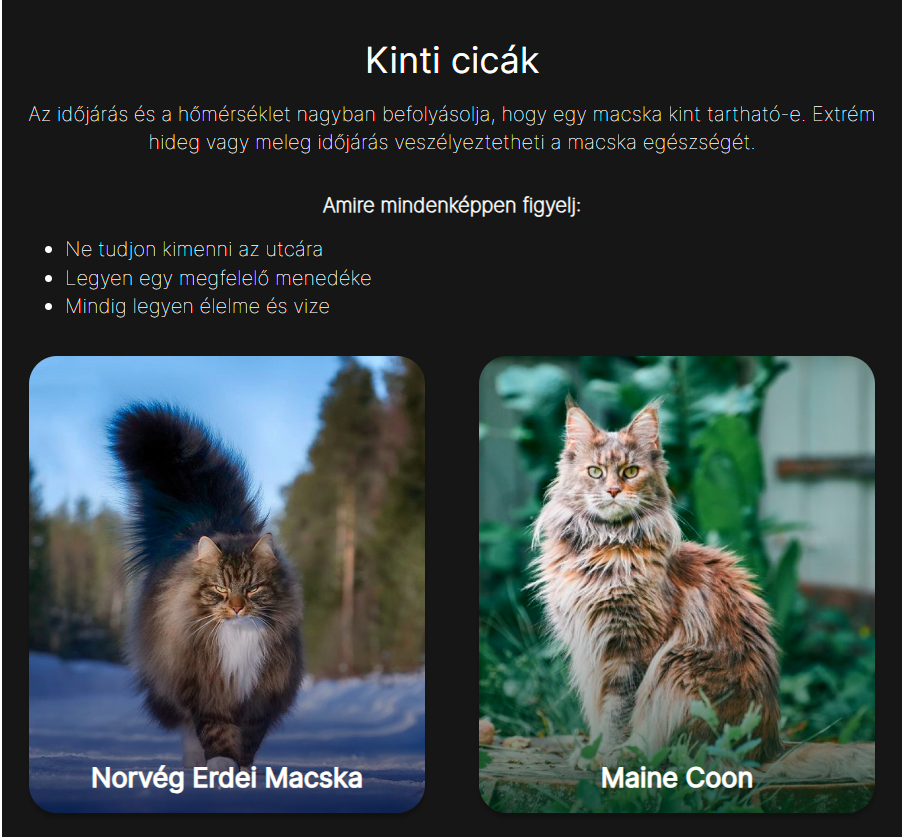
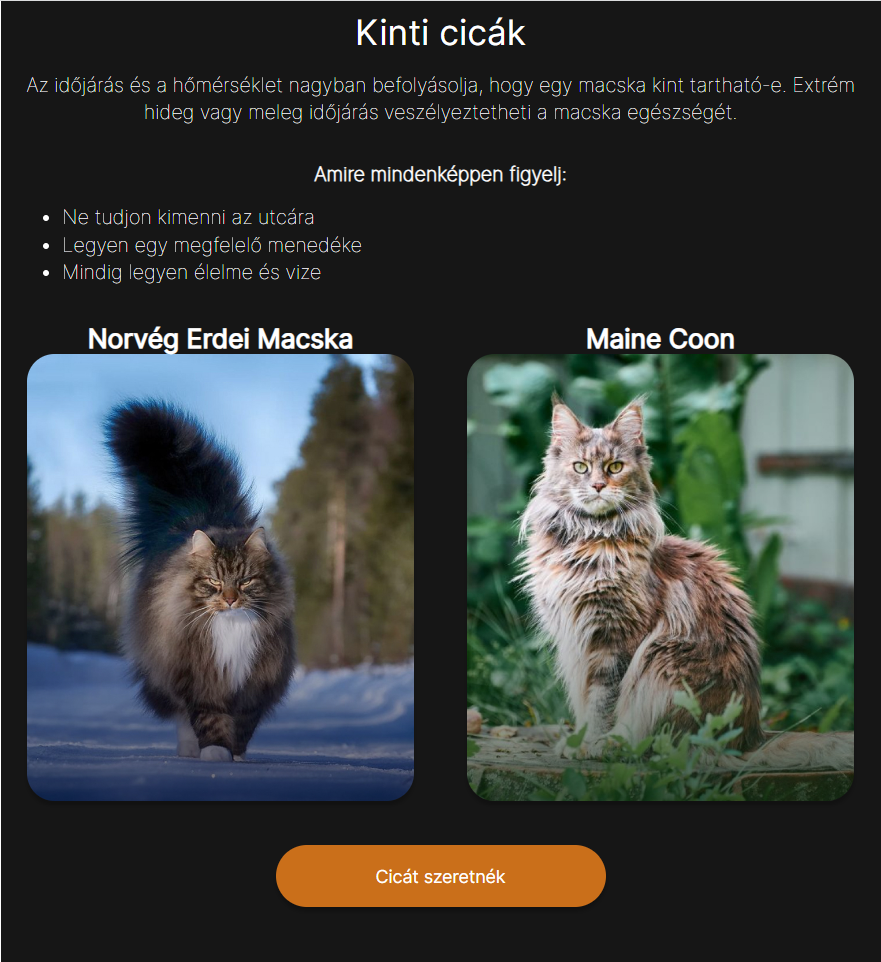
macskacímek

diff --git a/index.html b/index.html
@@ -1,155 +1,158 @@
 <!DOCTYPE html>
 <html lang="en">
-
-<head>
-    <meta charset="UTF-8">
-    <meta name="viewport" content="width=device-width, initial-scale=1.0">
+  <head>
+    <meta charset="UTF-8" />
+    <meta name="viewport" content="width=device-width, initial-scale=1.0" />
     <title>Saját név</title>
-    <link rel="stylesheet" href="style/index.css">
-</head>
+    <link rel="stylesheet" href="style/index.css" />
+  </head>
 
-<body>
-
+  <body>
     <div class="hero">
-        <div class="menu">
-            <ul>
-
-                <li><a href="#" class="primary">Kinti cicák</a></li>
-                <li><a href="#" class="primary">Benti cicák</a></li>
-                <li><a href="#" class="primary">Macskajátékok</a></li>
-                <li><a href="#" class="primary">Eseményeink</a></li>
-            </ul>
-        </div>
-        <h1>Macskaland</h1>
-        <p>Keresd meg a hozzád legjobban illő négylábúdat és böngéssz az eseményeink között!</p>
-        <a class="primary" href="#">Keresem a cicám</a>
-    </div>
-    <div class="content">
-        <h1>Milyen élete lesz a cicádnak?</h1>
-        <p>Első körben fontos, hogy tudjuk, milyen körülmények között szeretnénk cicát tartani és milyen életet fogunk
-            tudni
-            neki biztosítani így fajta specifikusabban tudunk választani.</p>
-        <div class="keret">
-            <a href="#" class="primary"><img src="icons/fa icon.svg" />Kinti cica</a>
-            <a href="#" class="primary"><img src="icons/ház icon.svg" />Benti cica</a>
-        </div>
-    </div>
-    <div class="content">
-        <h1>Kinti cicák</h1>
-        <p>
-            Az időjárás és a hőmérséklet nagyban befolyásolja, hogy egy macska kint tartható-e. Extrém hideg vagy meleg
-            időjárás
-            veszélyeztetheti a macska egészségét.
-        </p>
+      <div class="menu">
         <ul>
-            <span>Amire mindenképpen figyelj:</span>
-            <li> Ne tudjon kimenni az utcára </li>
-            <li>Legyen egy megfelelő menedéke</li>
-            <li>Mindig legyen élelme és vize</li>
+          <li><a href="#" class="primary">Kinti cicák</a></li>
+          <li><a href="#" class="primary">Benti cicák</a></li>
+          <li><a href="#" class="primary">Macskajátékok</a></li>
+          <li><a href="#" class="primary">Eseményeink</a></li>
         </ul>
+      </div>
+      <h1>Macskaland</h1>
+      <p>
+        Keresd meg a hozzád legjobban illő négylábúdat és böngéssz az
+        eseményeink között!
+      </p>
+      <a class="primary" href="#">Keresem a cicám</a>
+    </div>
+    <div class="content">
+      <h1>Milyen élete lesz a cicádnak?</h1>
+      <p>
+        Első körben fontos, hogy tudjuk, milyen körülmények között szeretnénk
+        cicát tartani és milyen életet fogunk tudni neki biztosítani így fajta
+        specifikusabban tudunk választani.
+      </p>
+      <div class="keret">
+        <a href="#" class="primary"
+          ><img src="icons/fa icon.svg" />Kinti cica</a
+        >
+        <a href="#" class="primary"
+          ><img src="icons/ház icon.svg" />Benti cica</a
+        >
+      </div>
+    </div>
+    <div class="content">
+      <h1>Kinti cicák</h1>
+      <p>
+        Az időjárás és a hőmérséklet nagyban befolyásolja, hogy egy macska kint
+        tartható-e. Extrém hideg vagy meleg időjárás veszélyeztetheti a macska
+        egészségét.
+      </p>
+      <ul>
+        <span>Amire mindenképpen figyelj:</span>
+        <li>Ne tudjon kimenni az utcára</li>
+        <li>Legyen egy megfelelő menedéke</li>
+        <li>Mindig legyen élelme és vize</li>
+      </ul>
     </div>
     <div class="keret">
-        <div class="norveg picture">
-            <h2>Norvég Erdei Macska</h2>
-        </div>
-        <div class="maincoon picture">
-            <h2>Maine Coon</h2>
+      <div style="text-align: center">
+        <h2>Norvég Erdei Macska</h2>
+        <div class="norveg picture"></div>
+      </div>
+      <div style="text-align: center">
+        <h2>Maine Coon</h2>
 
-
-        </div>
+        <div class="maincoon picture"></div>
+      </div>
     </div>
     <a href="#" class="primary">Cicát szeretnék</a>
     <div class="content">
-
-        <br>
-        <h1> Benti Cicák</h1>
-        <p>
-            Amikor cicát tartasz bent, fontos néhány alapvető szempontot figyelembe venni annak érdekében, hogy a cica
-            boldog és
-            egészséges legyen. Íme néhány fontos dolog, amire figyelned kell:
-        </p>
-        <ul>
-            <li>Legyen egy kialakított helye</li>
-            <li>Mindig legyen élelme és vize</li>
-            <li>Biztosítanod kell számára a napi aktivitást és sportot</li>
-        </ul>
+      <br />
+      <h1>Benti Cicák</h1>
+      <p>
+        Amikor cicát tartasz bent, fontos néhány alapvető szempontot figyelembe
+        venni annak érdekében, hogy a cica boldog és egészséges legyen. Íme
+        néhány fontos dolog, amire figyelned kell:
+      </p>
+      <ul>
+        <li>Legyen egy kialakított helye</li>
+        <li>Mindig legyen élelme és vize</li>
+        <li>Biztosítanod kell számára a napi aktivitást és sportot</li>
+      </ul>
     </div>
     <div class="keret">
-        <div class="bengali picture">
-            <h2> Bengáli macska</h2>
-        </div>
-        <div class="megezamacs picture">
-            <h2> Meg ez a cica</h2>
-        </div>
+      <div style="text-align: center">
+        <h2>Bengáli macska</h2>
+        <div class="bengali picture"></div>
+      </div>
+      <div style="text-align: center">
+        <h2>Meg ez a cica</h2>
+
+        <div class="megezamacs picture"></div>
+      </div>
     </div>
     <a href="#" class="primary"> Cicát szeretnék</a>
     <div class="content">
-        <br>
-        <h1>Fedezd fel</h1>
+      <br />
+      <h1>Fedezd fel</h1>
     </div>
     <div class="keret">
-        <div class="contentbox">
-            <img src="images/egér.jpg" alt="">
-            <h2>Tippek <br> macskajátékokhoz</h2>
-            <p>Találd meg a legjobb játékot kiskedvencednek.</p>
-            <a href="#" class="primary">Érdekel</a>
-        </div>
-        <div class="contentbox">
-            <img src="images/hal.jpg" alt="">
-            <h2>Macska konyha</h2>
-            <p>Fontos, hogy a hétköznapokon is minőségi ételeket tegyünk cicánk elé. Ehhez hoztunk pár hasznos receptet
-            </p>
-            <a href="#" class="primary">Érdekel</a>
-        </div>
+      <div class="contentbox">
+        <img src="images/egér.jpg" alt="" />
+        <h2>
+          Tippek <br />
+          macskajátékokhoz
+        </h2>
+        <p>Találd meg a legjobb játékot kiskedvencednek.</p>
+        <a href="#" class="primary">Érdekel</a>
+      </div>
+      <div class="contentbox">
+        <img src="images/hal.jpg" alt="" />
+        <h2>Macska konyha</h2>
+        <p>
+          Fontos, hogy a hétköznapokon is minőségi ételeket tegyünk cicánk elé.
+          Ehhez hoztunk pár hasznos receptet
+        </p>
+        <a href="#" class="primary">Érdekel</a>
+      </div>
     </div>
 
     <div class="content">
-        <br>
-        <br>
-        <h1>Eseményeink</h1>
+      <br />
+      <br />
+      <h1>Eseményeink</h1>
     </div>
     <div class="keret">
-        <div class="contentbox gray">
-            <p> 2023.10.05.</p>
-            <h2>
-                Macska show
-            </h2>
-            <p>
-                A Macska Elegancia Szépségverseny egy felejthetetlen esemény, ahol a világ legszebb és legbájosabb
-                macskái
-                mérik
-                össze szépségüket és eleganciájukat
-            </p>
-            <a href="#" class="primary secondary">
-                Jegyek ->
-            </a>
-        </div>
+      <div class="contentbox gray">
+        <p>2023.10.05.</p>
+        <h2>Macska show</h2>
+        <p>
+          A Macska Elegancia Szépségverseny egy felejthetetlen esemény, ahol a
+          világ legszebb és legbájosabb macskái mérik össze szépségüket és
+          eleganciájukat
+        </p>
+        <a href="#" class="primary secondary"> Jegyek -> </a>
+      </div>
 
-        <div class="contentbox gray">
-            <p> 2023.10.15.</p>
-            <h2>
-                Ügyességi vetélkedő
-            </h2>
-            <p>
-                A Macskák Ügyességi Vetélkedője egy lenyűgöző esemény, ahol a legügyesebb és legügyesebb macskák
-                mutathatják
-                meg,
-                milyen ügyesen és elegánsan teljesítenek különböző kihívásokat és akadálypályákat.
-            </p>
-            <a href="#" class="primary secondary">
-                Jelentkezem ->
-            </a>
-        </div>
+      <div class="contentbox gray">
+        <p>2023.10.15.</p>
+        <h2>Ügyességi vetélkedő</h2>
+        <p>
+          A Macskák Ügyességi Vetélkedője egy lenyűgöző esemény, ahol a
+          legügyesebb és legügyesebb macskák mutathatják meg, milyen ügyesen és
+          elegánsan teljesítenek különböző kihívásokat és akadálypályákat.
+        </p>
+        <a href="#" class="primary secondary"> Jelentkezem -> </a>
+      </div>
     </div>
     <a class="primary">További események</a>
     <div class="content">
-        <h1>Cicát szeretnél?</h1>
-        <p> Írj nekünk és egy-két munkanapon válaszolunk neked.</p>
-        <span class="input">email</span>
-        <span class="input">Üzenet szövege</span>
-        <br>
-        <a href="" class="primary">Üzenet küldése</a>
+      <h1>Cicát szeretnél?</h1>
+      <p>Írj nekünk és egy-két munkanapon válaszolunk neked.</p>
+      <span class="input">email</span>
+      <span class="input">Üzenet szövege</span>
+      <br />
+      <a href="" class="primary">Üzenet küldése</a>
     </div>
-</body>
-
+  </body>
 </html>
